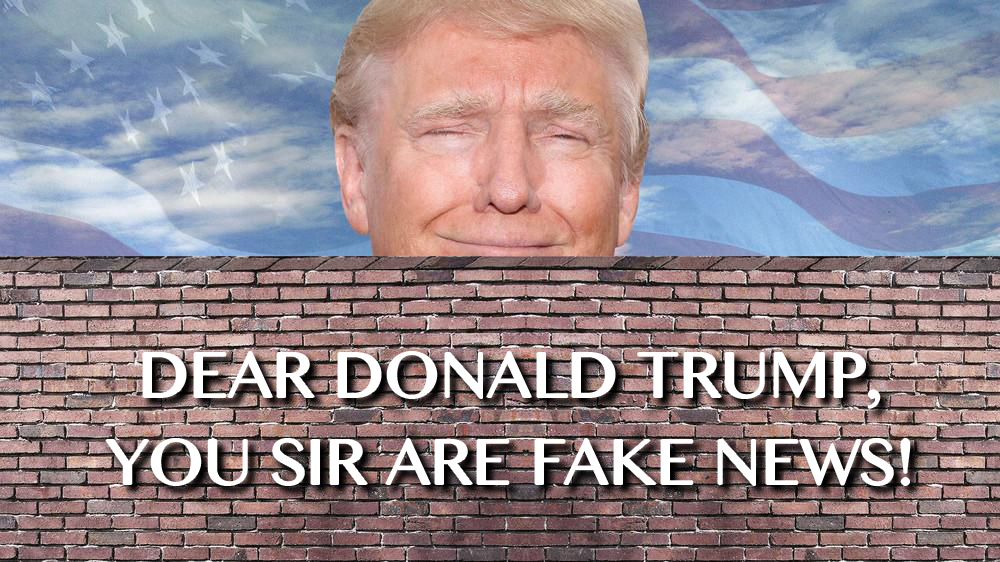
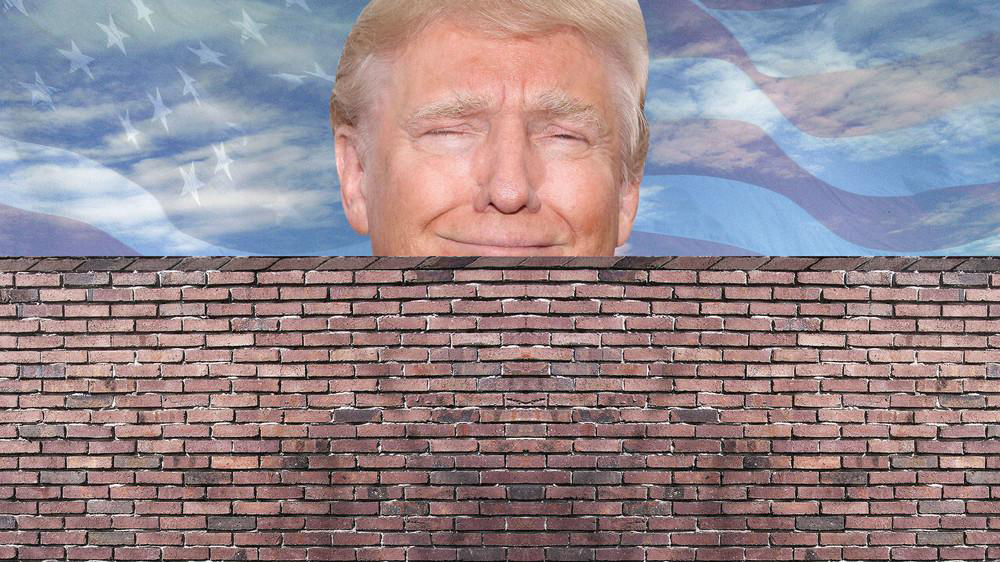
adding text

Changed region(s): [[0.093, 0.605, 0.93, 0.9075]]

diff --git a/style.css b/style.css
@@ -1,10 +1,40 @@
-/*--------------*/
-/* BODY STYLING */
-/*--------------*/
 html {
-	background: url(img/trumpwall.jpg) no-repeat center center fixed; 
+    background: url(img/trumpwall.jpg) no-repeat center center fixed;
     -webkit-background-size: cover;
     -moz-background-size: cover;
     -o-background-size: cover;
     background-size: cover;
+}
+
+p {
+    font-size: 7em;
+    color: black;
+    text-shadow: 4px 4px 8px white;
+}
+
+.headline {
+    position: fixed;
+    bottom: 10%;
+    left: 15%;
+}
+
+@media screen and (min-width: 320px) and (max-width: 480px) {
+    p {
+        font-size: 2.4em;
+        color: black;
+    }
+}
+
+@media screen and (min-width: 480px) and (max-width: 768px) {
+    p {
+        font-size: 3em;
+        color: black;
+    }
+}
+
+@media screen and (min-width: 768px) and (max-width: 1024px){
+    p {
+        font-size: 5em;
+        color: black;
+    }
 }

diff --git a/index.html b/index.html
@@ -6,8 +6,15 @@
     <meta http-equiv="X-UA-Compatible" content="IE=edge">
     <meta name="viewport" content="width=device-width, initial-scale=1">
     <title>Trump Is Fake News!</title>
+    <link href="https://maxcdn.bootstrapcdn.com/bootstrap/3.3.7/css/bootstrap.min.css" rel="stylesheet">
     <link href="style.css" rel="stylesheet">
 </head>
-<body>  
+
+<body>
+    <div class="headline text-center">
+        <p>Dear Donald Trump,<br>
+        You Sir Are Fake News!</p>
+    </div>
 </body>
+
 </html>
